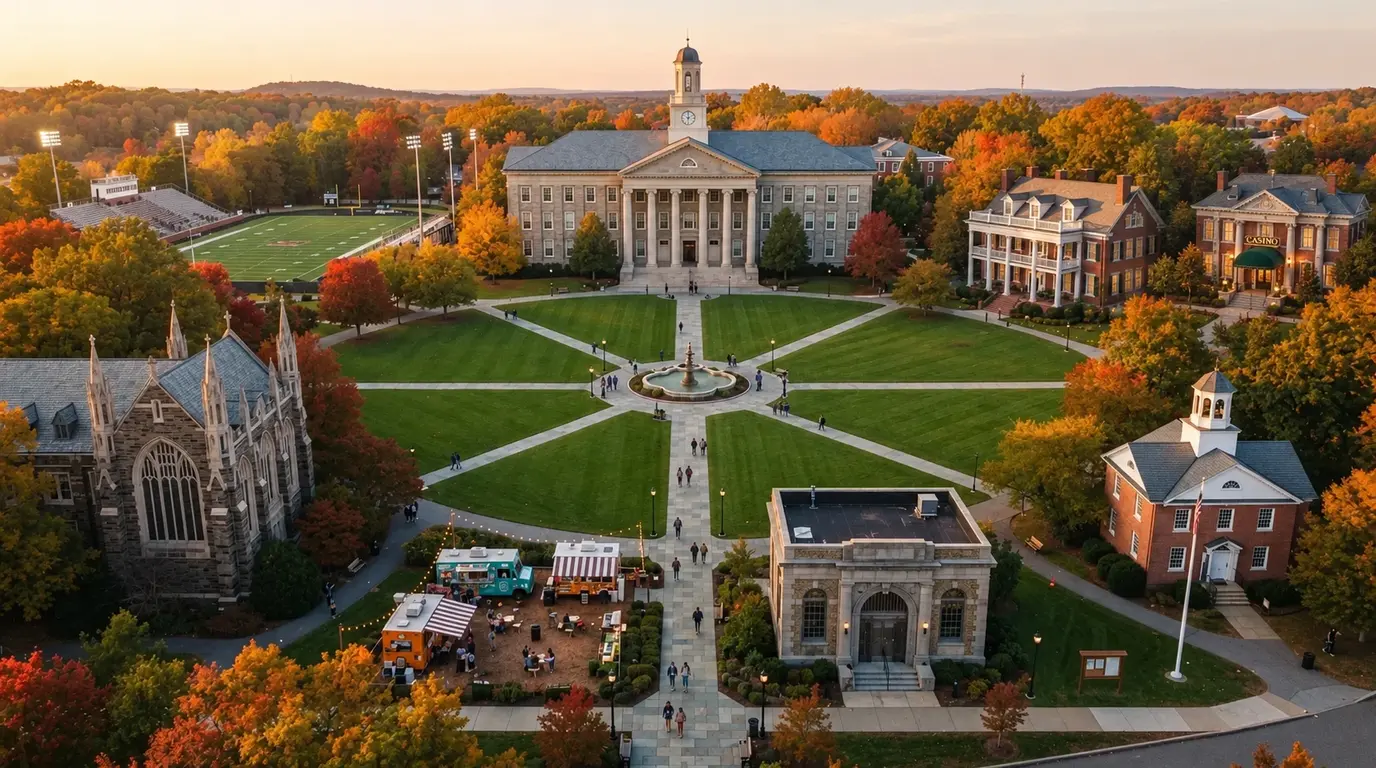
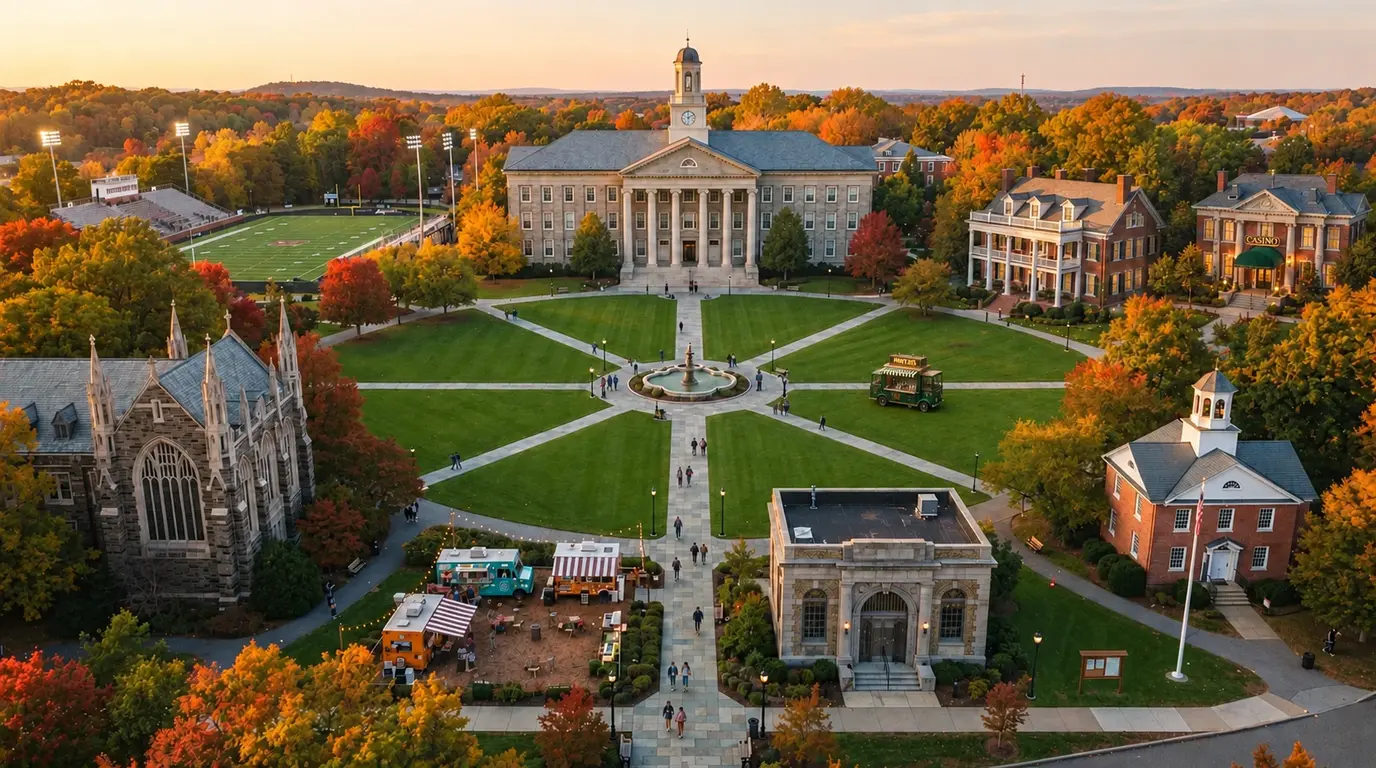
Campus: nieuwe foto's met foodtruck, Food Truck-knop op de truck
Claude-Session: https://claude.ai/code/session_016iryS5yhLQ7YJ4M4oM7b5S

diff --git a/index.html b/index.html
@@ -3879,7 +3879,7 @@ const CAMPUS_PLACES = [
   { id: 'battle', name: 'The Arena', what: 'Battles', box: [3, 15, 31, 22], pin: [19, 35] },
   { id: 'house', name: 'Frat House', what: 'Kamers en vrienden', box: [70, 21.5, 14.5, 18.5], pin: [77, 42] },
   { id: 'casino', name: 'Casino', what: 'Blackjack, roulette en meer', box: [86.3, 25, 12.5, 17], pin: [92, 45.5] },
-  { id: 'bar', name: 'Food Truck', what: 'Een pintje voor 1 credit', box: [57, 45, 11, 10], pin: [63, 55] },
+  { id: 'bar', name: 'Food Truck', what: 'Een pintje voor 1 credit', box: [62.5, 44.5, 7, 10], pin: [65.8, 57] },
   { id: 'friends', name: 'The Quad', what: 'Friends', box: [45.5, 46.5, 9, 7], pin: [50, 57] },
   { id: 'stats', name: 'The Library', what: 'Stats', box: [0, 39, 22.7, 40], pin: [11.5, 80] },
   { id: 'trade', name: 'Black Market', what: 'Ruilen', box: [27.5, 69, 19.5, 20], pin: [37, 90.5] },
